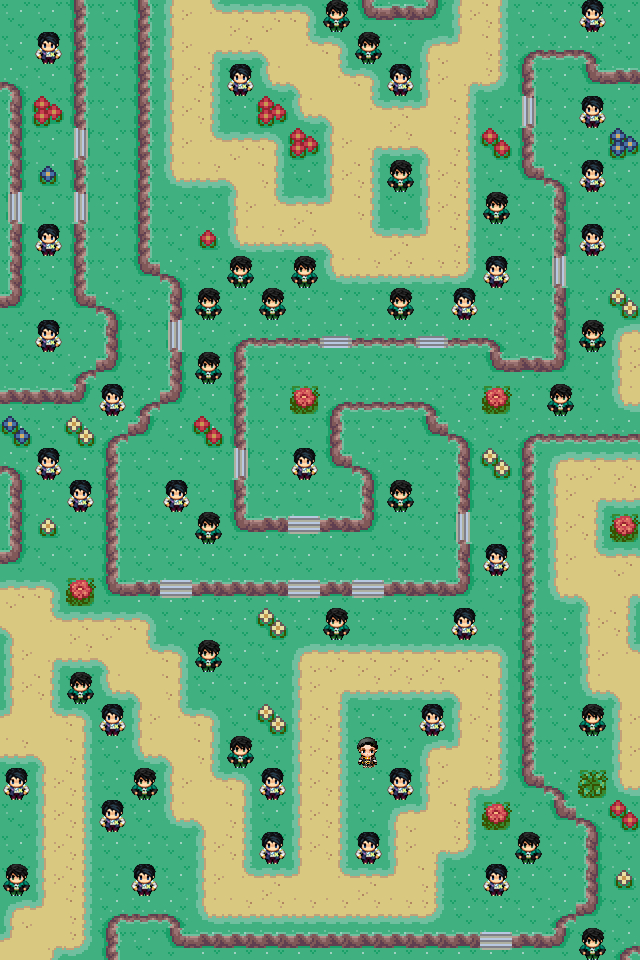
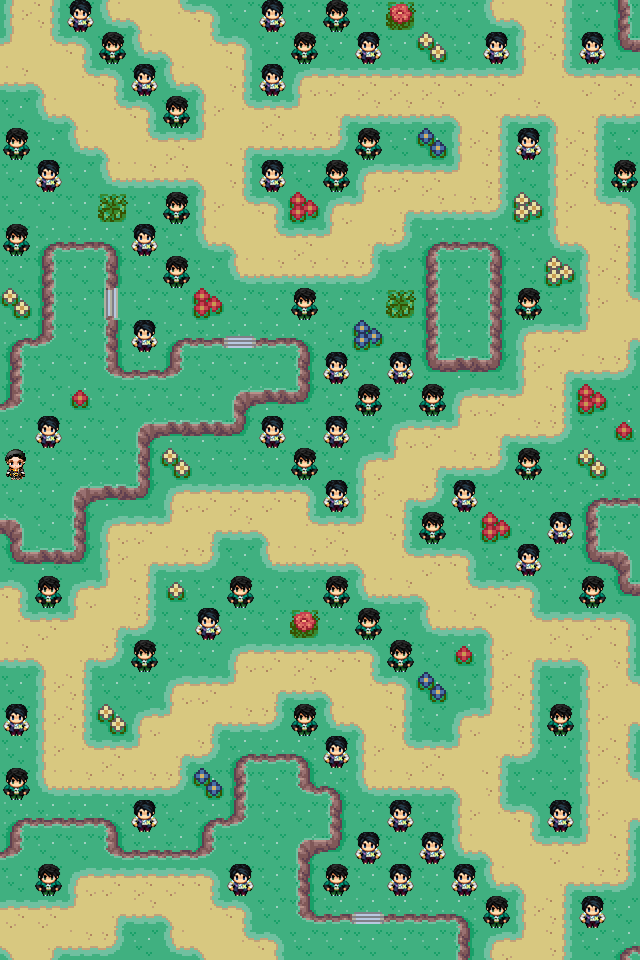
update cliff turn

diff --git a/src/game.js b/src/game.js
@@ -15,31 +15,31 @@
         score: 0,
         mapCnt: 0,
         mapLocations:[
-[16, 17],
-[9, 2],
-[15, 25],
-[4, 20],
-[8, 14],
-[0, 27],
-[3, 28],
-[11, 23],
-[6, 1],
-[16, 21],
-[13, 1],
-[1, 6],
-[9, 18],
-[18, 27],
-[12, 29],
+[0, 10],
+[19, 28],
+[13, 13],
+[15, 12],
+[18, 0],
+[18, 2],
+[14, 17],
+[0, 14],
+[1, 9],
+[4, 15],
+[4, 0],
+[12, 18],
 [8, 22],
-[17, 7],
-[13, 4],
-[14, 19],
-[16, 10],
-[5, 14],
-[7, 0],
-[14, 3],
-[18, 26],
-[13, 8]
+[17, 1],
+[17, 4],
+[11, 5],
+[1, 0],
+[14, 12],
+[8, 21],
+[2, 14],
+[2, 11],
+[6, 22],
+[1, 26],
+[17, 13],
+[0, 0]
 ],
     bg: null,
     ground: null,

diff --git a/Readme.md b/Readme.md
@@ -1,8 +1,9 @@
 # FindHenry
 ---
+![](https://i.imgur.com/YxyhIyQ.png)
 
 ## Introduction
-![](https://i.imgur.com/E8QB4d2.png)
+
 
 FindHenry is a game that you have to find your friend, Henry
 ![](https://i.imgur.com/HnoXRiZ.png)
